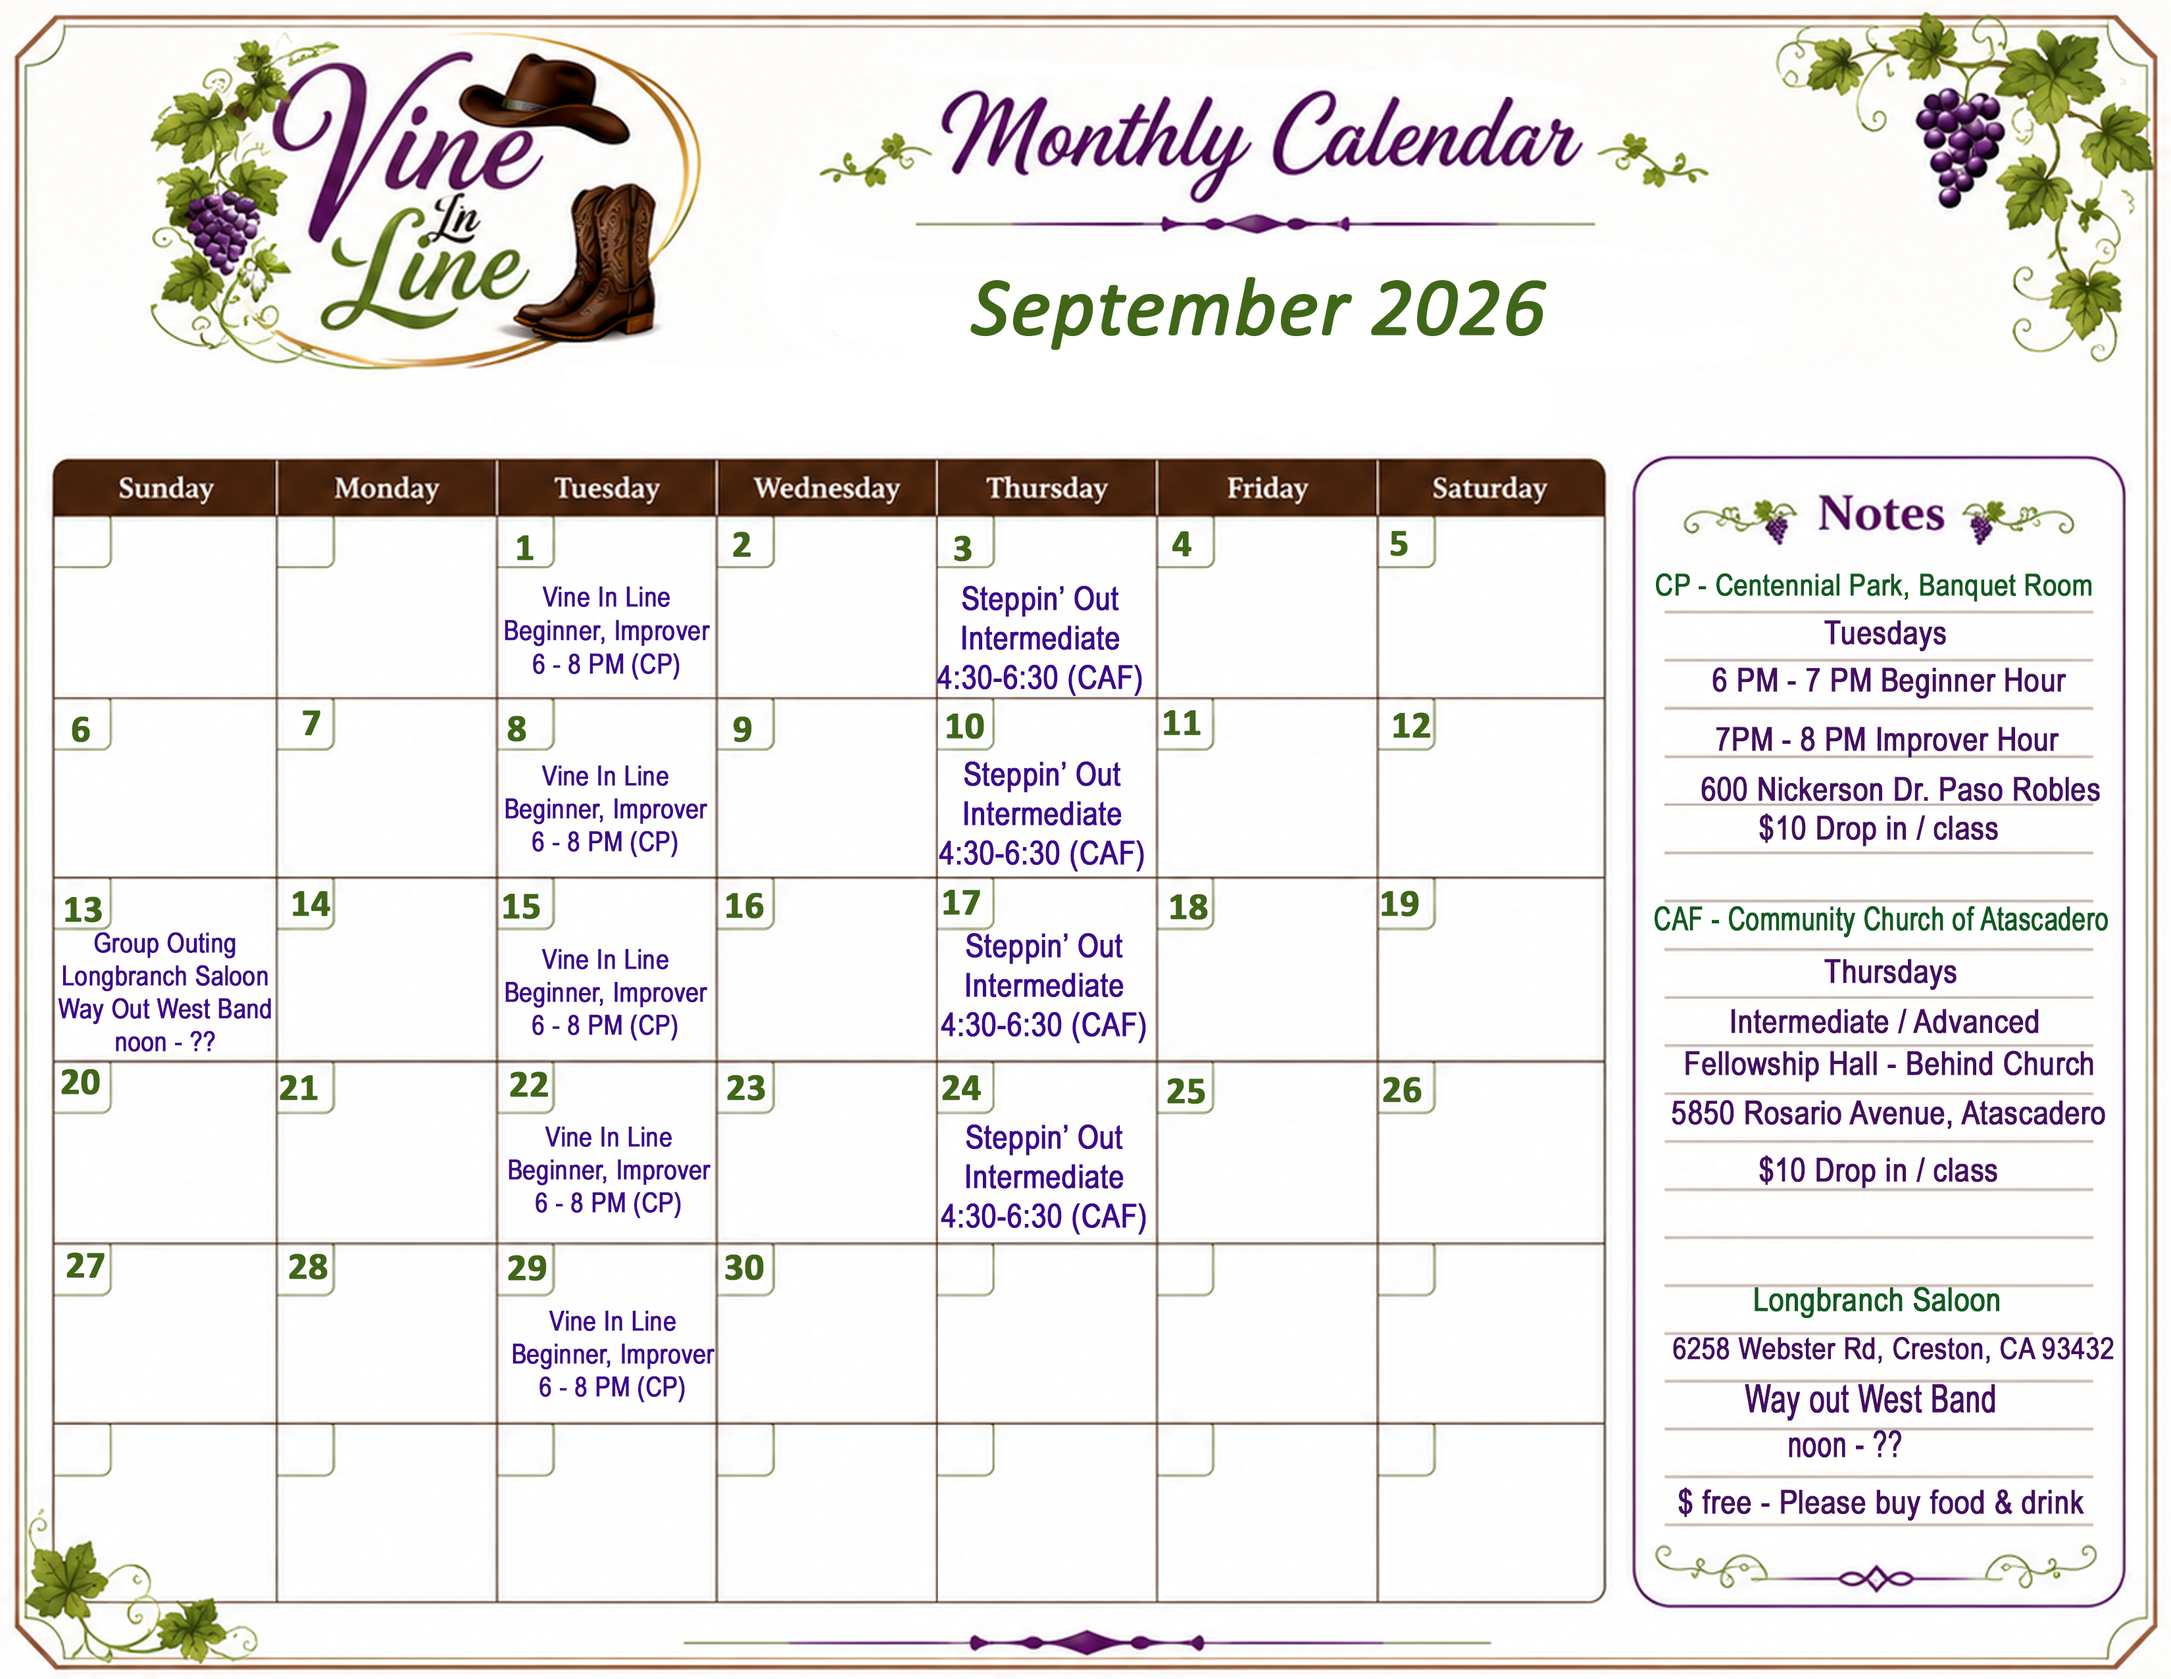
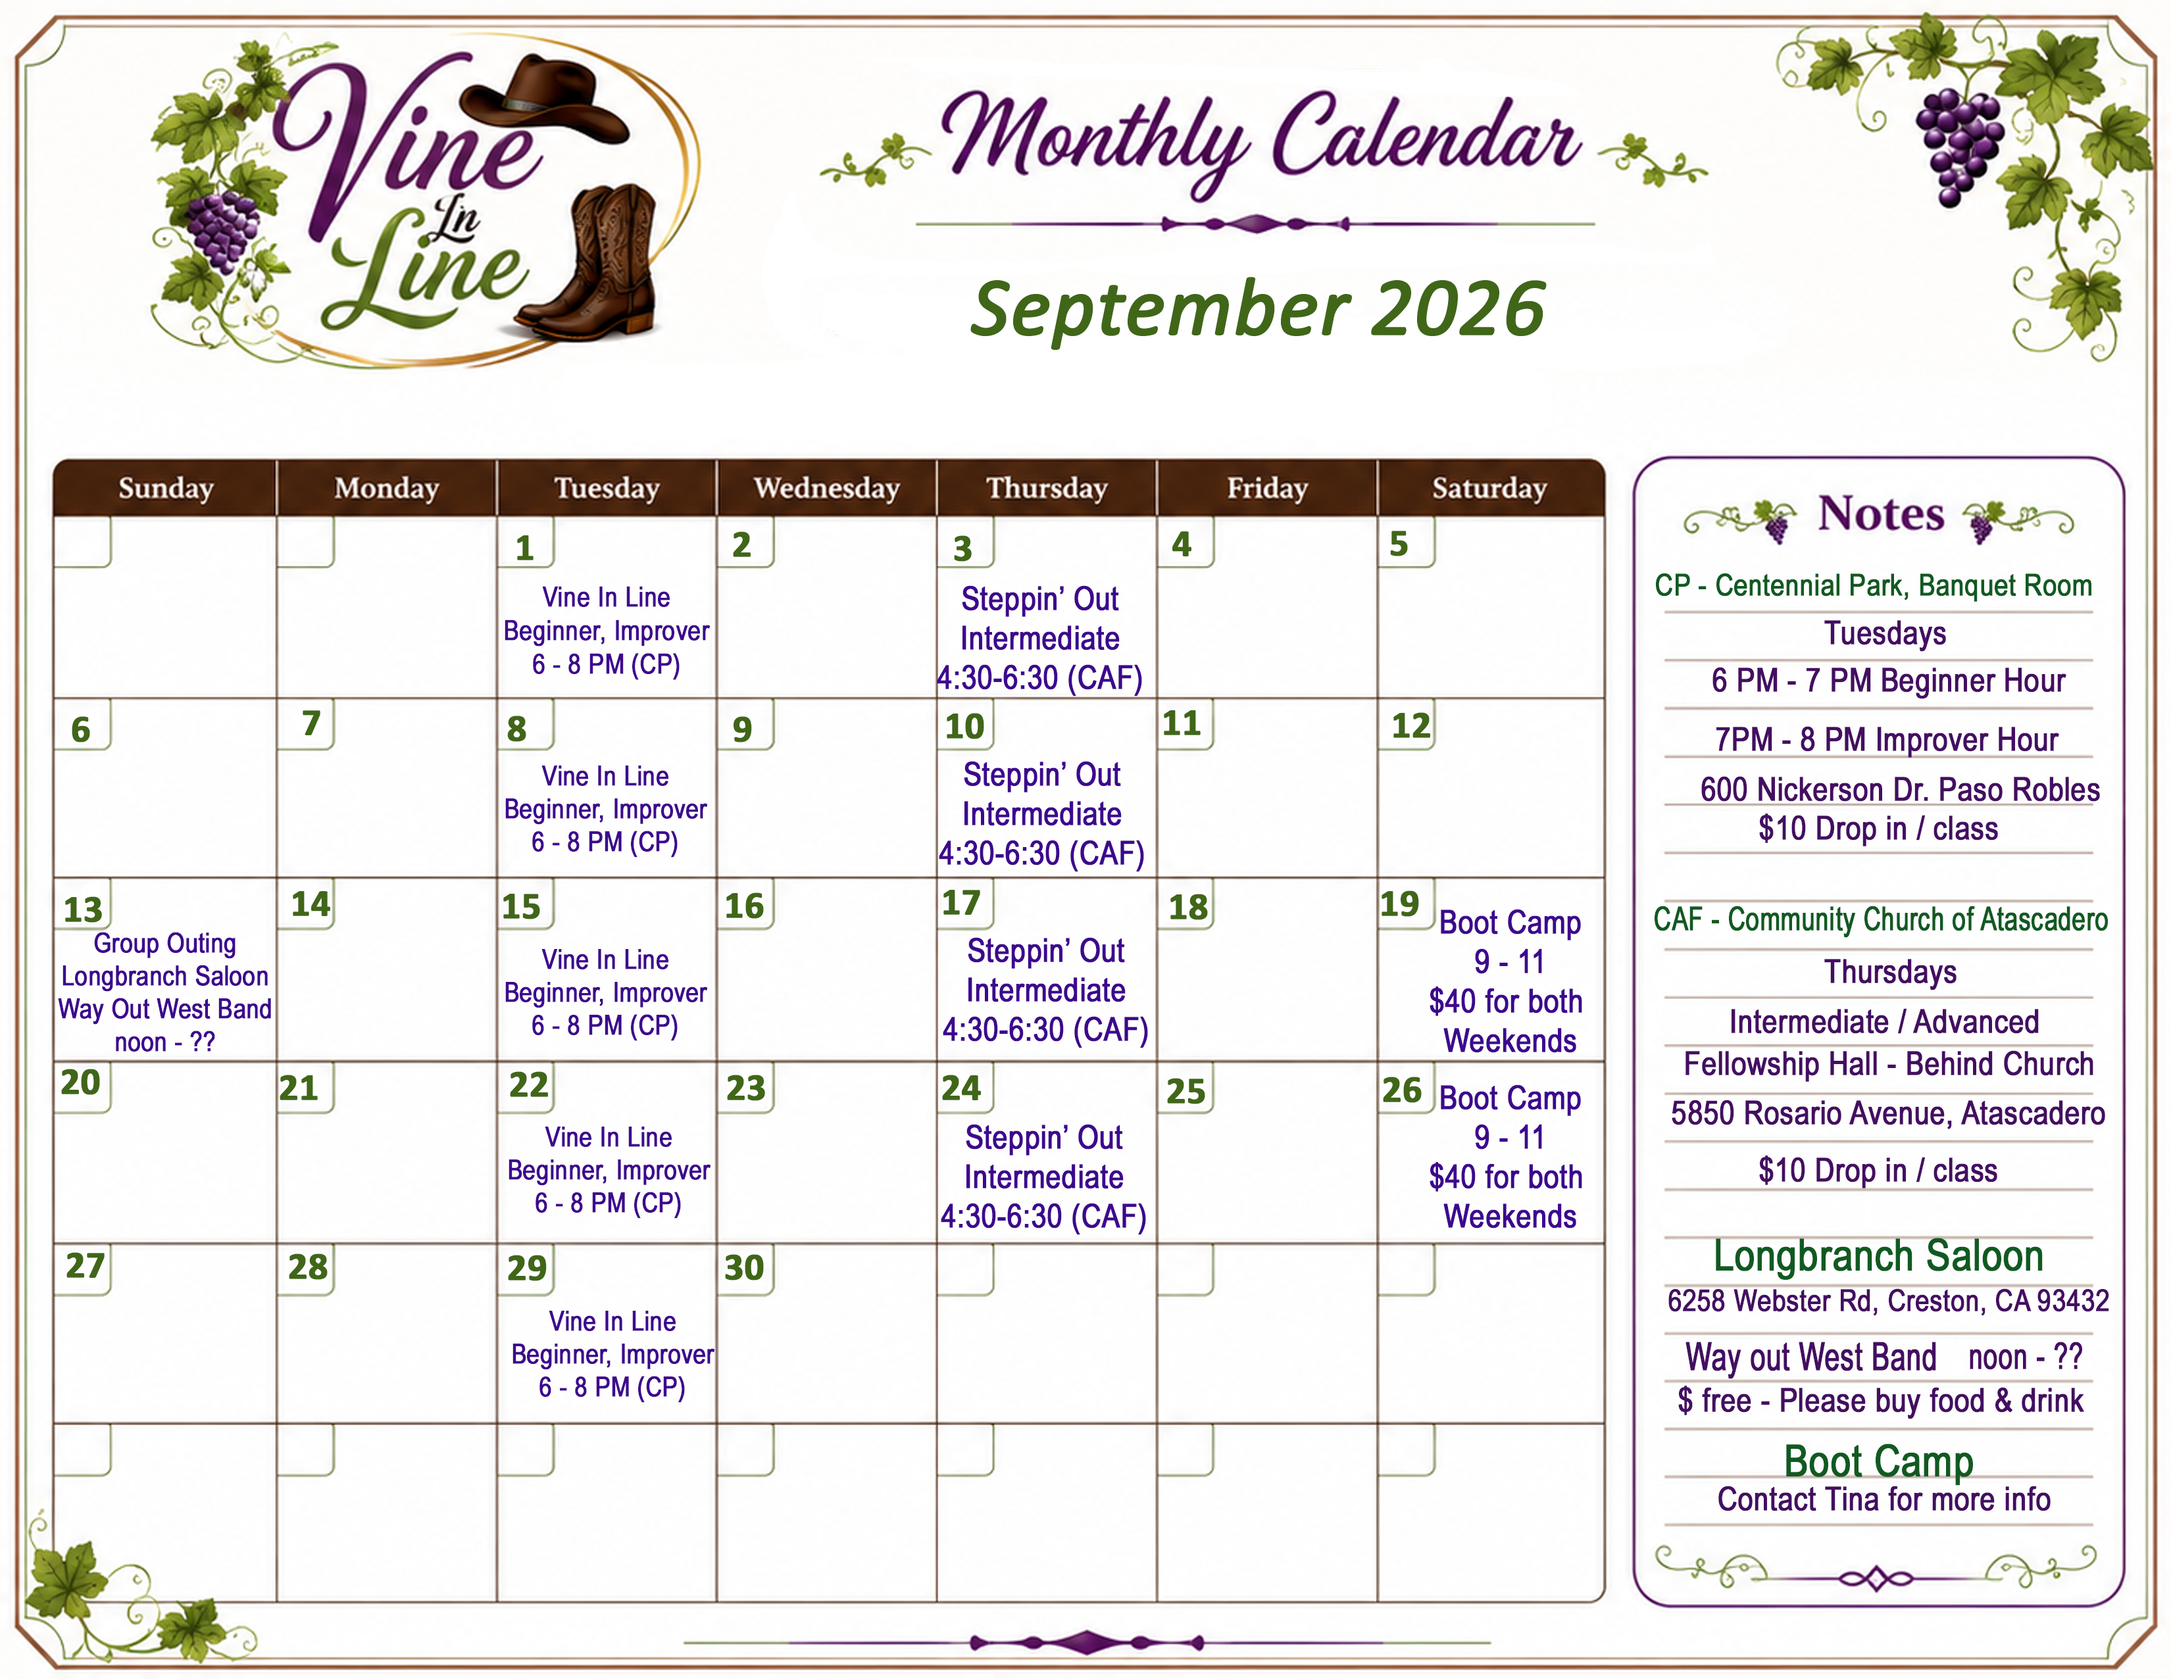
updates
Added pic, changed calendar, added boot camp info

diff --git a/schedule.html b/schedule.html
@@ -86,7 +86,6 @@
 
         <hr>
         <p><strong>Info: </strong> Introduce basic footwork, practice footwork to music, and learn a few simple line dance patterns</strong>  </p>
-        <p><strong>Dates:</strong> TBD based on sign-ups  </p>
         <p><strong>Time:</strong> 2 x 2-hour workshops </p>
         <p><strong>Interested?</strong> <a href="contact.html">Contact Tina</a></p>
         <p><strong>Cost:</strong> $40 for a two-week session</p>
@@ -98,17 +97,7 @@
 </section>
 
 <section class="section">
-  <div class="schedule-alert-box">
-
-<h2>⚠ Current Schedule Changes</h2>
-
-<p>
-Please see our
-<a href="news.html">Current News</a>
-page for holiday schedules, cancellations, special events, and the latest class updates.
-</p>
-
-</div>
+ 
 
   <h2>What to Expect</h2>
 

diff --git a/news.js b/news.js
@@ -10,7 +10,7 @@ const news = {
      "&nbsp;",
  
     "<strong>Make plans to come on the 5th week</strong> -- It's going to be a party! Both Tina and Wendy will be teaching some fun party dances (which may include circle, partner, contra, and downright 'silly' options).",
-    "<Strong>Line Dance Boot Camp </strong>- A new introductory class will be scheduled once we have four dancers signed-up. If you are interested, contact Tina."
+    "<Strong>Line Dance Boot Camp </strong>- Scheduled for 9/19 and 9/26 (Saturdays) 9 - 11 AM.  $40 for the 2-week series.  Contact Tina to register."
   ],
   scheduleUpdates: [
     "Tuesday line dance parties continue every week this month.",

diff --git a/images.js b/images.js
@@ -1,4 +1,5 @@
 const galleryImages = [
+  "gallery/IMG_2096.jpg",
   "gallery/20210622_183528.jpg",
   "gallery/Centennial Park Line Dance Class.jpg",
   "gallery/Dancing to Joy Bonner.jpg",
